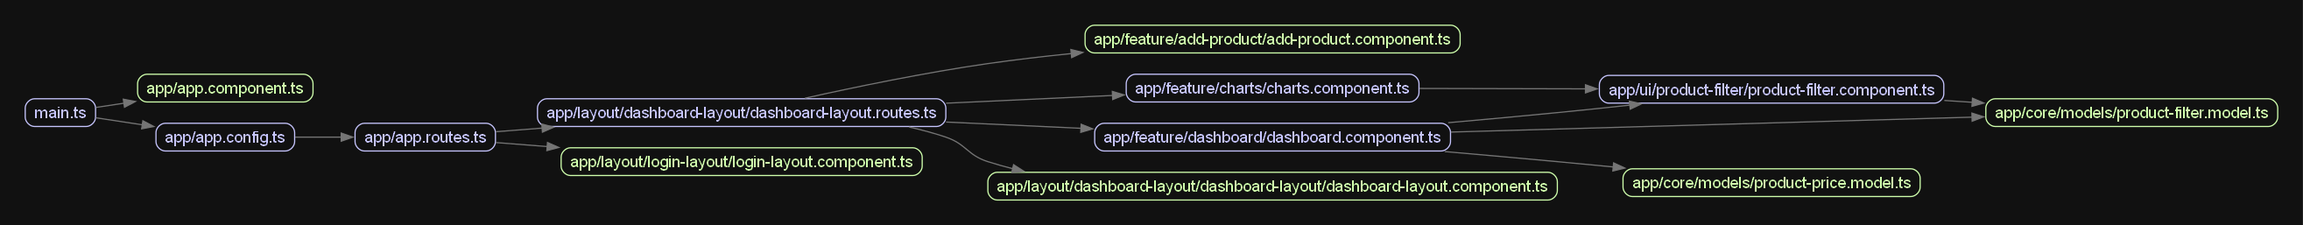
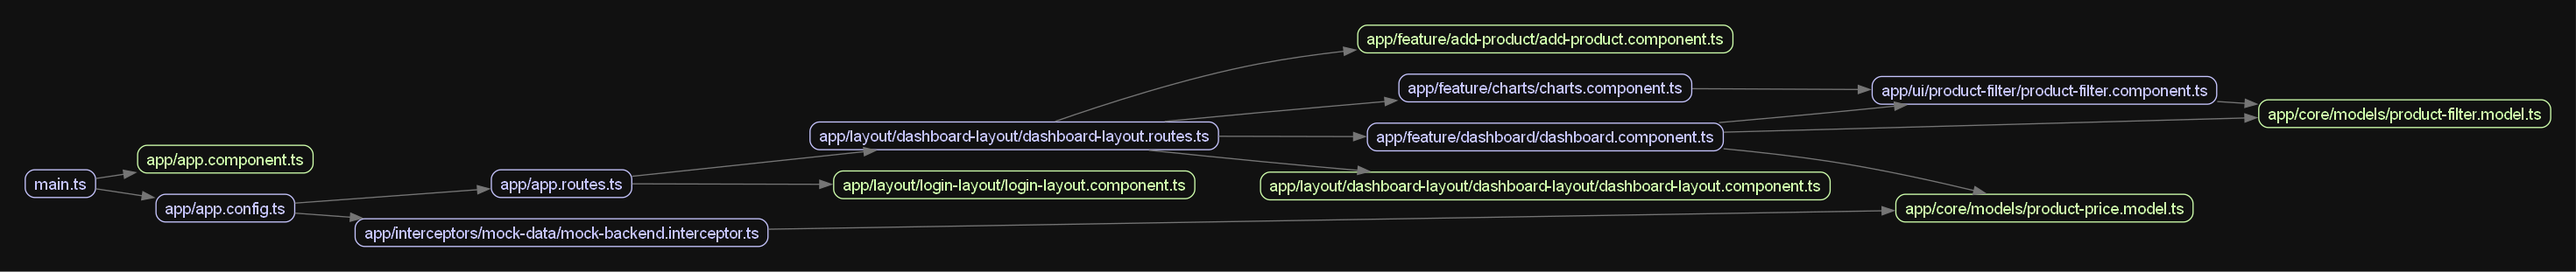
added signals

diff --git a/src/app/feature/dashboard/dashboard.component.ts b/src/app/feature/dashboard/dashboard.component.ts
@@ -1,8 +1,9 @@
-import { Component } from '@angular/core';
+import { Component, OnInit, signal } from '@angular/core';
 import { ProductPrice } from '../../core/models/product-price.model';
 import { CommonModule } from '@angular/common';
 import { ProductFilterComponent } from '../../ui/product-filter/product-filter.component';
 import { ProductFilter } from '../../core/models/product-filter.model';
+import { HttpClient } from '@angular/common/http';
 
 @Component({
   selector: 'app-dashboard',
@@ -11,53 +12,20 @@ import { ProductFilter } from '../../core/models/product-filter.model';
   templateUrl: './dashboard.component.html',
   styleUrl: './dashboard.component.css',
 })
-export class DashboardComponent {
-  productPrices: ProductPrice[] = [
-    {
-      id: 2,
-      name: 'Maize',
-      price: 30000,
-      size: '100kg',
-      addedBy: 'Peter Parker',
-    },
-    {
-      id: 6,
-      name: 'Rice',
-      price: 35000,
-      size: '100kg',
-      addedBy: 'John Doe',
-    },
-    {
-      id: 9,
-      name: 'Beans',
-      price: 25000,
-      size: '100kg',
-      addedBy: 'Jane Smith',
-    },
-    {
-      id: 14,
-      name: 'Yam',
-      price: 45000,
-      size: '100kg',
-      addedBy: 'Ali Kidang',
-    },
-    {
-      id: 12,
-      name: 'Garri',
-      price: 15000,
-      size: '100kg',
-      addedBy: 'Chinedu Okeke',
-    },
-    {
-      id: 4,
-      name: 'Palm Oil',
-      price: 22000,
-      size: '100kg',
-      addedBy: 'Adeola Ayeni',
-    },
-  ];
+export class DashboardComponent implements OnInit {
+  productPrices = signal<ProductPrice[]>([]);
+
+  constructor(private httpClient: HttpClient) {}
 
   getProductPrices(filter: ProductFilter) {
     console.log(filter);
+  }
+
+  ngOnInit() {
+    this.httpClient
+      .get<ProductPrice[]>('http://localhost:3000/product-prices')
+      .subscribe((productPrices) => {
+        this.productPrices.set(productPrices);
+      });
   }
 }

diff --git a/src/app/interceptors/mock-data/mock-backend.interceptor.ts b/src/app/interceptors/mock-data/mock-backend.interceptor.ts
@@ -1,0 +1,72 @@
+import {
+  HttpRequest,
+  HttpResponse,
+  HttpEvent,
+  HttpHandlerFn,
+} from '@angular/common/http';
+import { Observable, of } from 'rxjs';
+import { delay } from 'rxjs/operators';
+import { ProductPrice } from '../../core/models/product-price.model';
+
+export function mockBackendInterceptor(
+  req: HttpRequest<unknown>,
+  next: HttpHandlerFn,
+): Observable<HttpEvent<unknown>> {
+  const { url, method } = req;
+
+  if (url.endsWith('/product-prices') && method === 'GET')
+    return getProductPrices();
+  else return next(req);
+
+  function getProductPrices() {
+    const productPrices: ProductPrice[] = [
+      {
+        id: 2,
+        name: 'Maize',
+        price: 30000,
+        size: '100kg',
+        addedBy: 'Peter Parker',
+      },
+      {
+        id: 6,
+        name: 'Rice',
+        price: 35000,
+        size: '100kg',
+        addedBy: 'John Doe',
+      },
+      {
+        id: 9,
+        name: 'Beans',
+        price: 25000,
+        size: '100kg',
+        addedBy: 'Jane Smith',
+      },
+      {
+        id: 14,
+        name: 'Yam',
+        price: 45000,
+        size: '100kg',
+        addedBy: 'Ali Kidang',
+      },
+      {
+        id: 12,
+        name: 'Garri',
+        price: 15000,
+        size: '100kg',
+        addedBy: 'Chinedu Okeke',
+      },
+      {
+        id: 4,
+        name: 'Palm Oil',
+        price: 22000,
+        size: '100kg',
+        addedBy: 'Adeola Ayeni',
+      },
+    ];
+    return ok(productPrices);
+  }
+
+  function ok(body?: ProductPrice[]) {
+    return of(new HttpResponse({ status: 200, body })).pipe(delay(500)); // delay observable to simulate server api call
+  }
+}

diff --git a/eslint.config.js b/eslint.config.js
@@ -60,6 +60,10 @@ module.exports = tseslint.config(
           type: "env",
           pattern: "src/environments/*",
         },
+        {
+          type: "interceptors",
+          pattern: "src/app/interceptors/*",
+        },
       ],
     },
     rules: {
@@ -91,7 +95,8 @@ module.exports = tseslint.config(
             { from: "ui", allow: ["ui", "core"] },
             { from: "main", allow: ["app"] },
             { from: "layout", allow: ["feature"] },
-            { from: "app", allow: ["app", "layout"] },
+            { from: "app", allow: ["app", "layout", "interceptors"] },
+            { from: "interceptors", allow: ["core"] },
           ],
         },
       ],

diff --git a/src/app/app.config.ts b/src/app/app.config.ts
@@ -5,11 +5,14 @@ import {
 import { provideRouter } from '@angular/router';
 import { provideCharts, withDefaultRegisterables } from 'ng2-charts';
 import { routes } from './app.routes';
+import { provideHttpClient, withInterceptors } from '@angular/common/http';
+import { mockBackendInterceptor } from './interceptors/mock-data/mock-backend.interceptor';
 
 export const appConfig: ApplicationConfig = {
   providers: [
     provideExperimentalZonelessChangeDetection(),
     provideRouter(routes),
     provideCharts(withDefaultRegisterables()),
+    provideHttpClient(withInterceptors([mockBackendInterceptor])),
   ],
 };

diff --git a/src/app/feature/dashboard/dashboard.component.html b/src/app/feature/dashboard/dashboard.component.html
@@ -37,7 +37,7 @@
           </tr>
         </thead>
         <tbody class="text-gray-700">
-          @for (product of productPrices; track product.id) {
+          @for (product of productPrices(); track product.id) {
             <tr>
               <td class="w-1/4 text-left py-2 px-2">{{ product.name }}</td>
               <td class="w-1/4 text-left py-2 px-2">{{ product.size }}</td>
